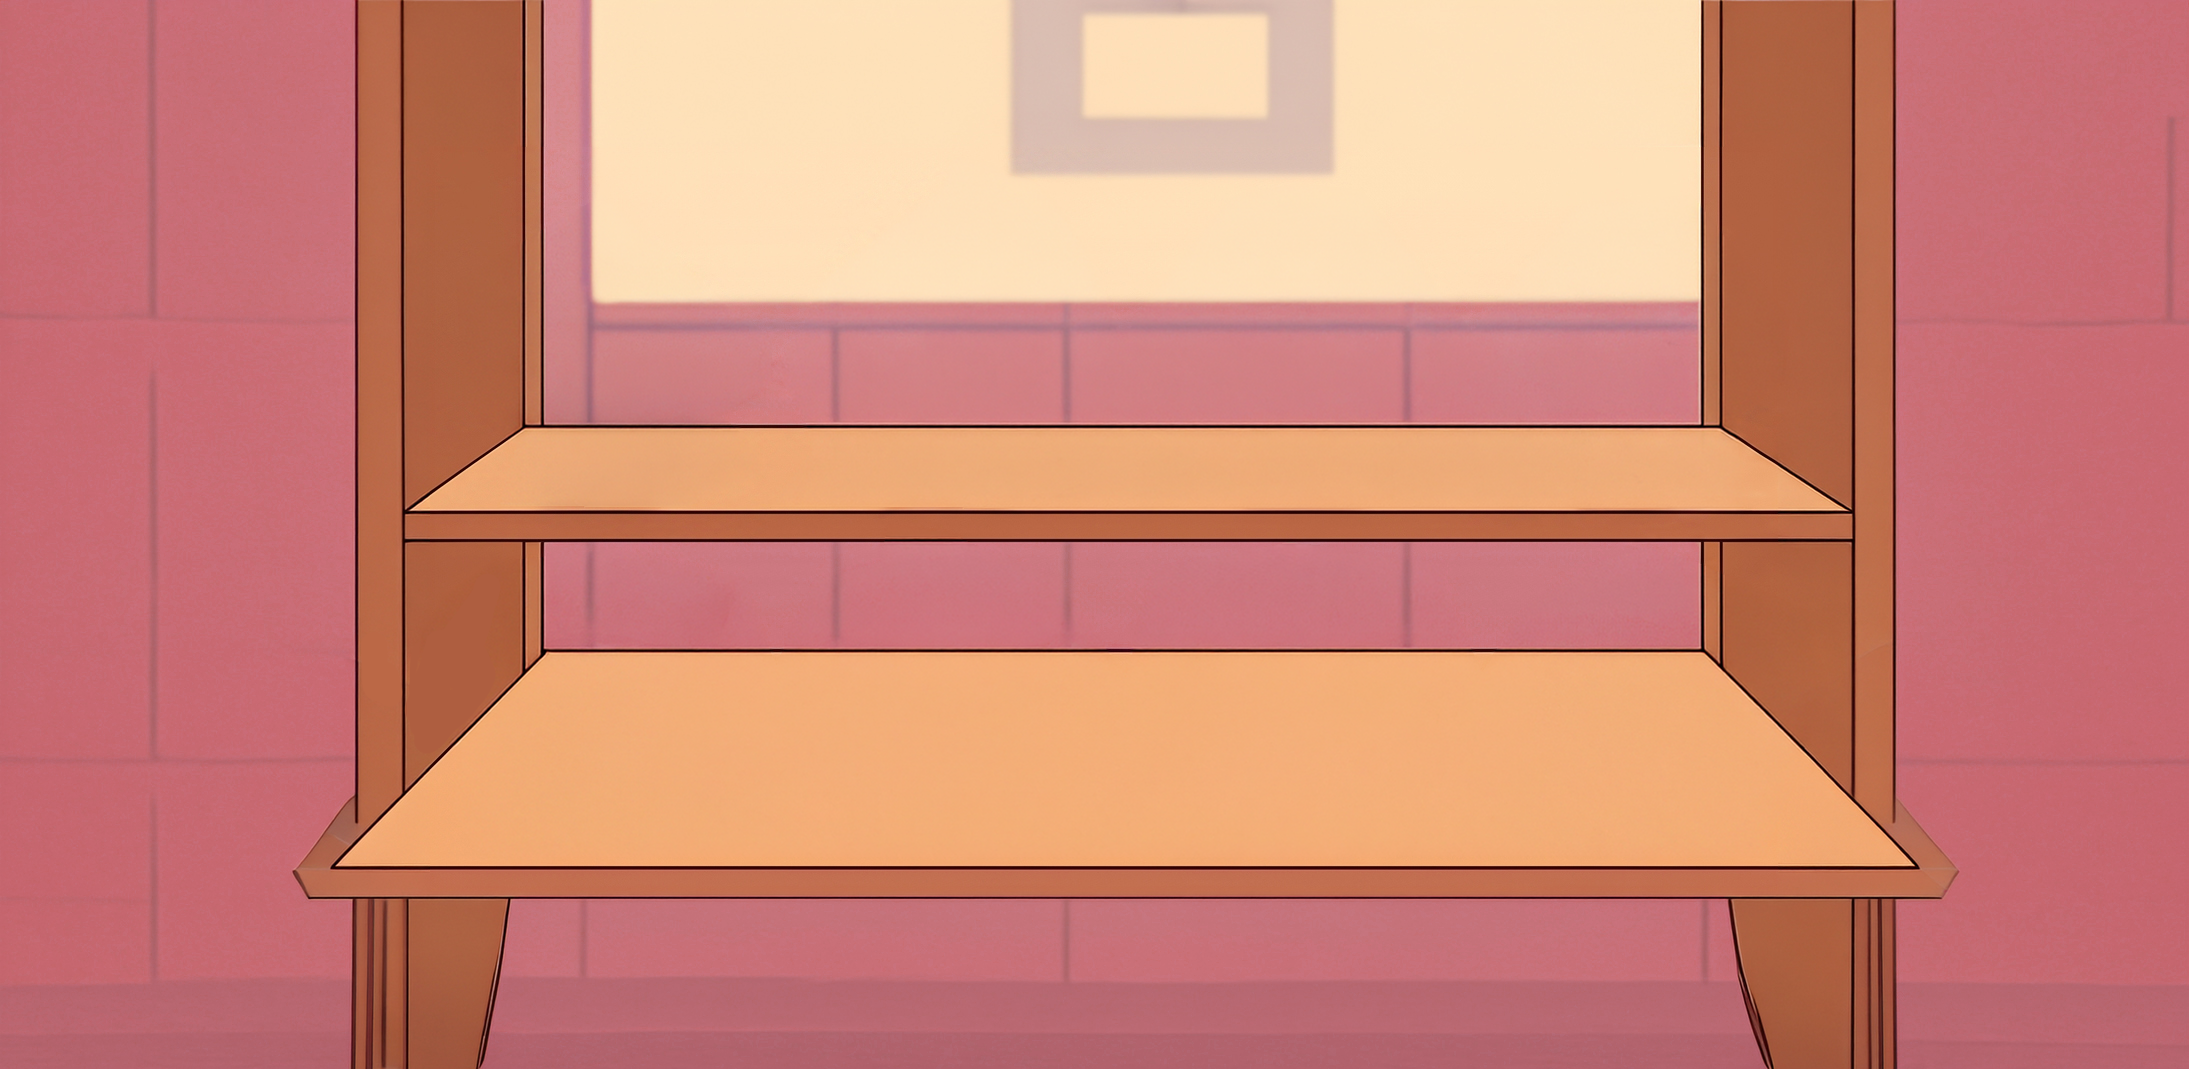
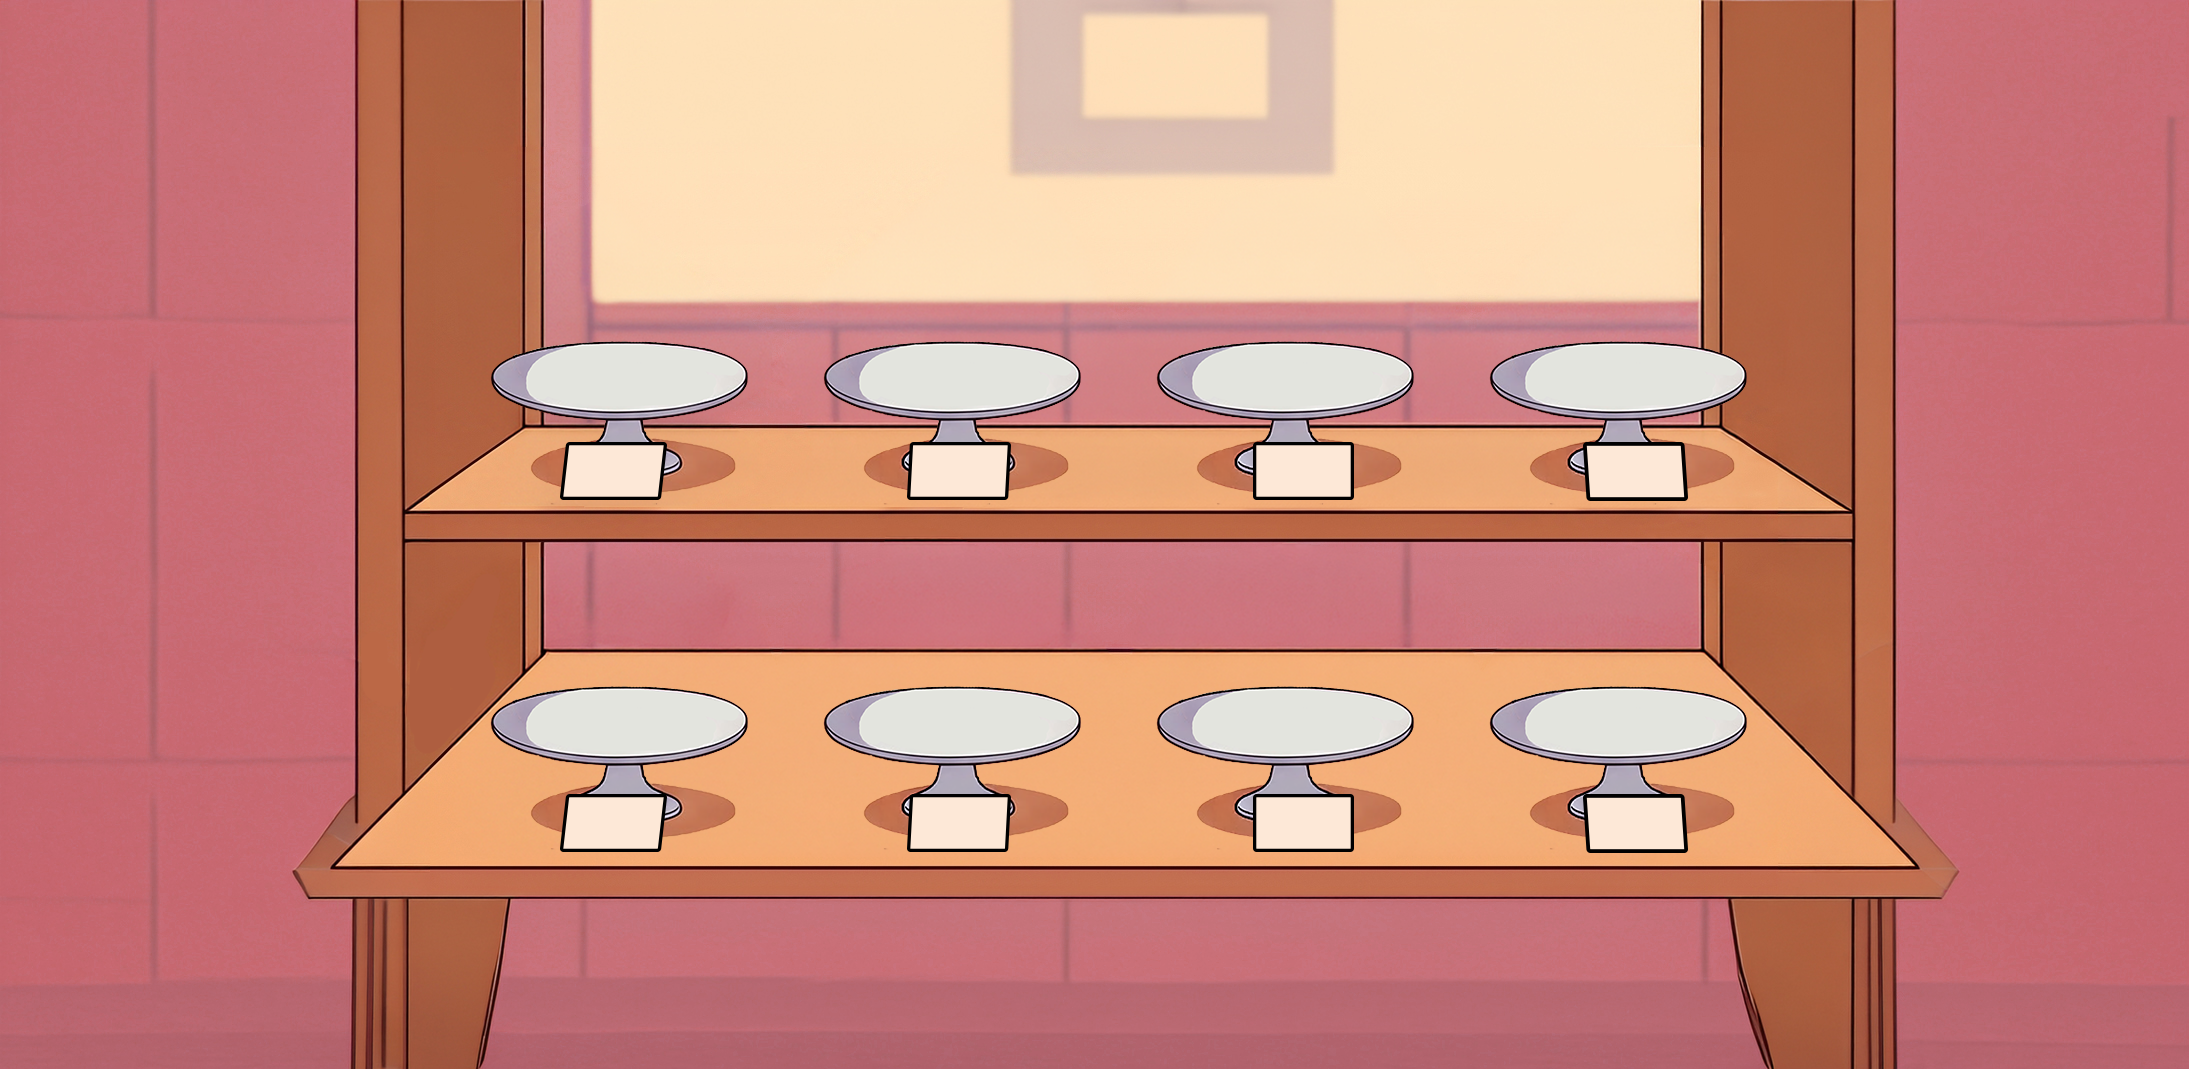
Fruit added, initial position set

diff --git a/src/ui_handler.js b/src/ui_handler.js
@@ -1,5 +1,6 @@
-import { TextBubble } from './text_bubble.js'
-import { Character } from './character.js'
+import { TextBubble } from './text_bubble.js';
+import { Character } from './character.js';
+import { FoodItem } from './food.js';
 
 
 export class UiHandler{
@@ -8,12 +9,21 @@ export class UiHandler{
         this.textBubble = null;
         this.boy = null;
         this.girl = null;
+
+        this.choc_cake = null;
+        this.fruit_cake = null;
+        this.fruit = null;
+        this.mint_cake = null;
+        this.onigiri = null;
+        this.salad = null;
+        this.tofu = null;
     }
     
     initUI(scale, assets, ctx){
         this.background = assets.getAsset('background');
         this.initCharacters(scale, assets, ctx);
         this.initTextBubble(scale, ctx);
+        this.initFoods(scale, assets);
     }
 
     updateUI(scale, ctx, deltaTime){
@@ -23,10 +33,22 @@ export class UiHandler{
     }
 
     drawUI(ctx){
-        ctx.drawImage(this.background, 0, 0, ctx.canvas.width / 2, ctx.canvas.height / 2);
+        const halfWidth = ctx.canvas.width / 2;
+        const halfHeight = ctx.canvas.height / 2;
+
+        ctx.drawImage(this.background, 0, 0, halfWidth, halfHeight);
+
+        ctx.fillStyle = "#9bd7b5";
+        ctx.fillRect(0, halfHeight, halfWidth, halfHeight)
+
+        ctx.strokeRect(0, 0, halfWidth, halfHeight);
+        ctx.strokeRect(0, halfHeight, halfWidth, halfHeight);
+
+
         if(this.boy){this.boy.draw(ctx)};
         if(this.girl){this.girl.draw(ctx)};
         if(this.textBubble){this.textBubble.draw(ctx);}
+        this.drawFoods(ctx);
     }
 
     resizeUI(scale){
@@ -59,5 +81,62 @@ export class UiHandler{
         size = {x:(588 / 2) * 0.5, y:(743 / 2) * 0.5};
         position = {x: (ctx.canvas.width / 2) - size.x, y: ctx.canvas.height - size.y};
         this.girl = new Character(assets.getAsset('girl_left'), position, size);
+    }
+
+    initFoods(scale, assets){
+
+        const imgSize = {x: 1772 * 0.05, y: 1801 * 0.05};
+
+        this.choc_cake = new FoodItem(assets.getAsset('choc_cake'),
+        'choc_cake', // Name
+        imgSize, // Size
+        {x: 175 , y: 100}, // Position
+        scale,15);
+
+        this.fruit_cake = new FoodItem(assets.getAsset('fruit_cake'),
+        'fruit_cake',
+        imgSize,
+        {x: 290 , y: 95},
+        scale,15);
+
+        this.fruit = new FoodItem(assets.getAsset('fruit'),
+        'fruit',
+        imgSize,
+        {x: 407 , y: 95},
+        scale,15);
+
+        this.mint_cake = new FoodItem(assets.getAsset('mint_cake'),
+        'mint_cake',
+        imgSize,
+        {x: 528 , y: 95},
+        scale,15);
+
+        this.onigiri = new FoodItem(assets.getAsset('onigiri'),
+        'onigiri',
+        imgSize,
+        {x: 175 , y: 230},
+        scale,15);
+
+        this.salad = new FoodItem(assets.getAsset('salad'),
+        'salad',
+        imgSize,
+        {x: 290 , y: 225},
+        scale,15);
+
+        this.tofu = new FoodItem(assets.getAsset('tofu'),
+        'tofu',
+        imgSize,
+        {x: 410 , y: 235},
+        scale,15);
+    }
+
+    drawFoods(ctx){
+        this.choc_cake.draw(ctx);
+        this.fruit_cake.draw(ctx);
+        this.fruit.draw(ctx);
+        this.mint_cake.draw(ctx);
+        this.onigiri.draw(ctx);
+        this.salad.draw(ctx);
+        this.tofu.draw(ctx);
     }
 }

diff --git a/src/game.js b/src/game.js
@@ -65,14 +65,8 @@ function draw(){
         Game.ctx.font = `40px Arial`;
         Game.ctx.fillText("Loading...", screenCenter.x - 40, screenCenter.y);
     } else{
-        Game.ctx.fillStyle = "#9bd7b5";
-        Game.ctx.fillRect(0,Game.ctx.canvas.height - (Game.ctx.canvas.height / 2),
-        Game.ctx.canvas.width / 2, Game.ctx.canvas.height / 2)
         Game.ui.drawUI(Game.ctx);
-        Game.ctx.strokeRect(0, 0, Game.ctx.canvas.width / 2, Game.ctx.canvas.height / 2);
-        Game.ctx.strokeRect(0, Game.ctx.canvas.height - (Game.ctx.canvas.height / 2), Game.ctx.canvas.width / 2, Game.ctx.canvas.height / 2);
     }
-    
 }
 
 export function resizeCanvas(){

diff --git a/src/food.js b/src/food.js
@@ -1,0 +1,26 @@
+export class FoodItem{
+    constructor(texture, name, size, pos, scale, cost){
+        this.texture = texture;
+        this.name = name;
+
+        this.size = size;
+        this.cachedSize = size;
+
+        this.pos = pos;
+        this.cachedPos = pos;
+
+        this.scale = scale;
+        this.cachedScale = scale;
+
+        this.selected = false;
+        this.cost = cost;
+    }
+
+    update(scale, ctx, deltaTime){
+        this.size = { x: this.cachedSize.x * scale.x, y: this.cachedSize.y * scale.y };
+    }
+
+    draw(ctx){
+        ctx.drawImage(this.texture, this.pos.x, this.pos.y, this.size.x, this.size.y);
+    }
+}

diff --git a/src/asset_handler.js b/src/asset_handler.js
@@ -62,5 +62,13 @@ export class AssetHandler{
         this.addAsset('boy', 'assets/Boy.png');
         this.addAsset('girl', 'assets/Girl.png');
         this.addAsset('girl_left', 'assets/Girl_mirrored.png');
+
+        this.addAsset('choc_cake', 'assets/choc_cake.png');
+        this.addAsset('fruit_cake', 'assets/fruit_cake.png');
+        this.addAsset('fruit', 'assets/fruit.png');
+        this.addAsset('mint_cake', 'assets/mint_cake.png');
+        this.addAsset('onigiri', 'assets/onigiri.png');
+        this.addAsset('salad', 'assets/salad.png');
+        this.addAsset('tofu', 'assets/tofu.png');
     }
 }

diff --git a/index.html b/index.html
@@ -6,6 +6,10 @@
         <link rel="icon" href="data:,">
         <title>MathGame</title>
         <link rel="stylesheet" href="css/main.css">
+        
+        <meta http-equiv="Cache-Control" content="no-cache, no-store, must-revalidate">
+        <meta http-equiv="Pragma" content="no-cache">
+        <meta http-equiv="Expires" content="0">
     </head>
     <body>
         <canvas id="game_canvas" width="960" height="540">
